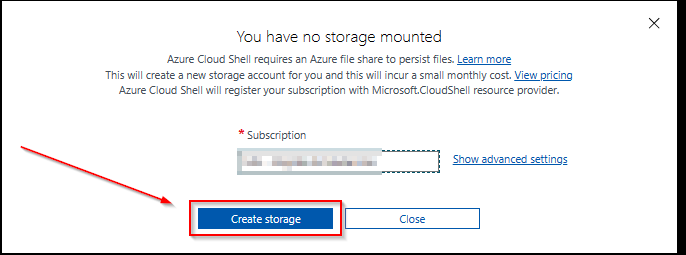
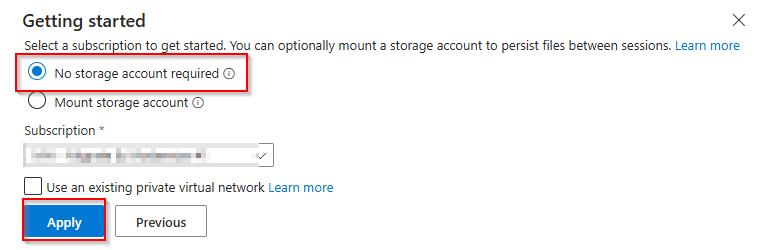
Update storage account requirements for Cloud Shell (#284)

diff --git a/03-Azure/01-03-Infrastructure/06_Migration_Secure_AI_Ready/walkthrough/challenge-1/solution.md b/03-Azure/01-03-Infrastructure/06_Migration_Secure_AI_Ready/walkthrough/challenge-1/solution.md
@@ -20,7 +20,7 @@ Duration: 30 minutes
 > [!NOTE]
 > You can also use your local PC but make sure to install [Azure CLI](https://learn.microsoft.com/en-us/cli/azure/install-azure-cli).
 
-- If this is the first time that Cloud Shell is beeing started, create the required Storage Account by selecting *Bash* and clicking on *Create storage* and wait until the Storage Accounts has been created.
+- If this is the first time that Cloud Shell is beeing started, select *Bash* and clicking on *No storage account required* and click on apply.
 
 ![image](./img/CS1-1.png)
 
